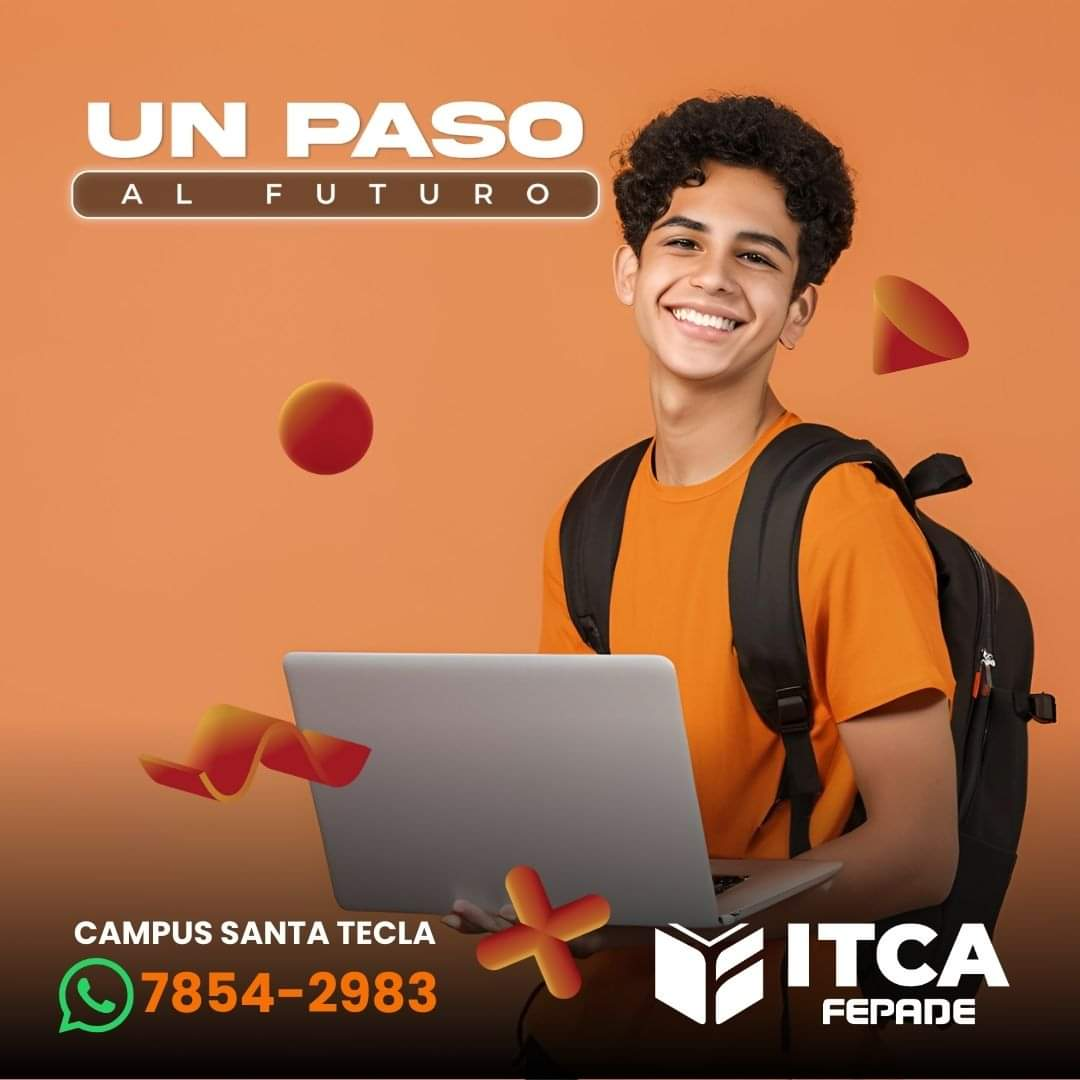
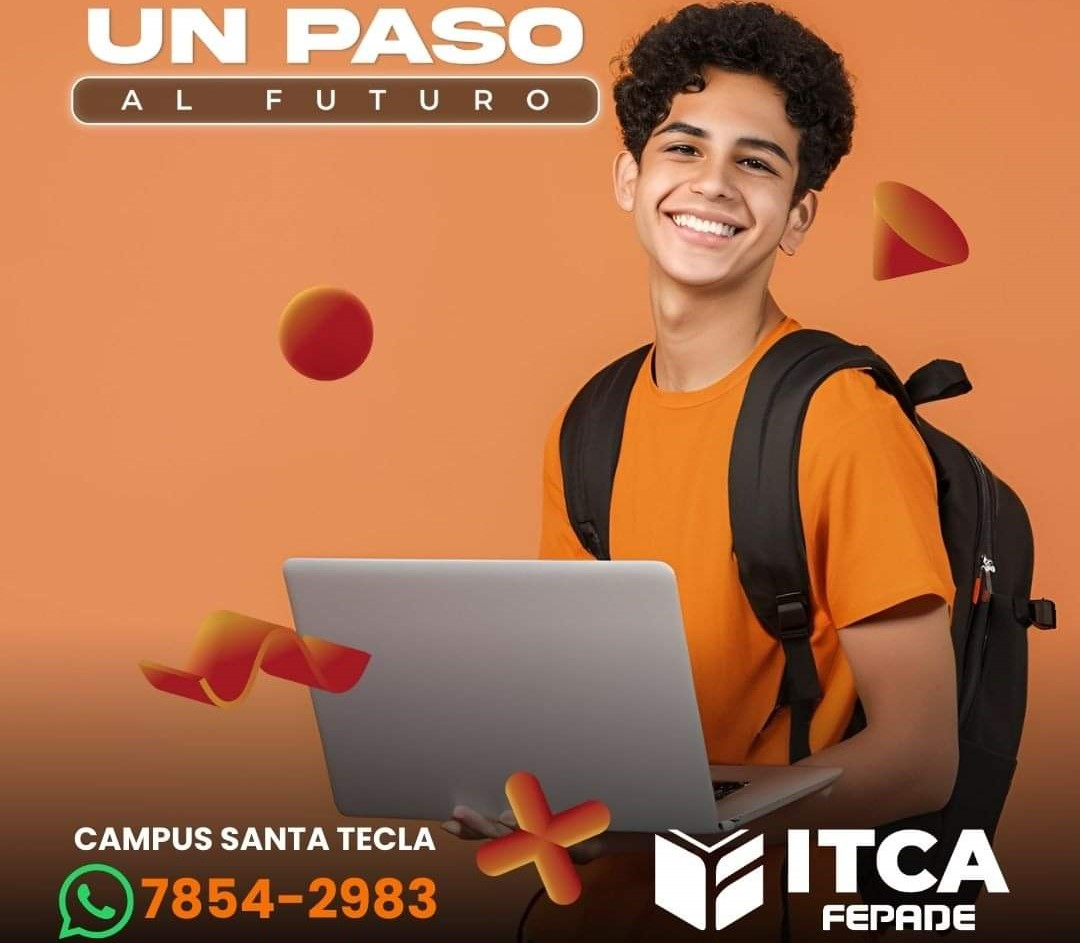
se modifico el componente de crear cuenta, se le agregaron los campos para crear la cuenta y se le agrego el menu

diff --git a/src/views/CreateAccountView.vue b/src/views/CreateAccountView.vue
@@ -1,27 +1,35 @@
 <template>
-    <div >
+    <div class="container-full">
+      <MenuComp />
       <CreateAccountComponent urlReferencia="https://www.itca.edu.sv/" />
     </div>
   </template>
   
   <script>
-import CreateAccountComponent from '@/components/CreateAccountComponent.vue';
-
+  import CreateAccountComponent from '@/components/CreateAccountComponent.vue';
+  import MenuComp from '@/components/MenuComp.vue';
   
-  
-  
-    export default {
-      name: "AccountView",
-      components: {
-        CreateAccountComponent,
-      },
-  
-  
-  
-    }
+  export default {
+    name: "AccountView",
+    components: {
+      CreateAccountComponent,
+      MenuComp,
+    },
+  };
   </script>
   
   <style scoped>
+  
+  .container-full {
+    height: 100vh; 
+    display: flex; 
+    flex-direction: column; 
+    align-items: center; 
+    justify-content: center; 
+    margin: 0; 
+    padding: 0; 
+    overflow: hidden; 
+  }
   
   </style>
   

diff --git a/src/views/LoginView.vue b/src/views/LoginView.vue
@@ -1,5 +1,6 @@
 <template>
-  <div >
+  <div class="container-full">
+    <MenuComp />
     <LoginStudentComponent urlReferencia="https://www.itca.edu.sv/" />
   </div>
 </template>
@@ -7,11 +8,13 @@
 <script>
 
 import LoginStudentComponent from '@/components/LoginStudentComponent.vue'
+import MenuComp from '@/components/MenuComp.vue'
 
   export default {
     name: "LoginView",
     components: {
       LoginStudentComponent,
+      MenuComp,
     },
 
 
@@ -20,5 +23,14 @@ import LoginStudentComponent from '@/components/LoginStudentComponent.vue'
 </script>
 
 <style scoped>
-
+.container-full {
+  height: 100vh; 
+  display: flex; 
+  flex-direction: column; 
+  align-items: center; 
+  justify-content: center; 
+  margin: 0; 
+  padding: 0; 
+  overflow: hidden; 
+}
 </style>

diff --git a/src/components/MenuComp.vue b/src/components/MenuComp.vue
@@ -14,8 +14,11 @@
       <v-btn class="custom-btn" @click="goToPage">
         Biblioteca
       </v-btn>
-      <v-btn class="custom-btn" @click="goToPage">
+      <v-btn class="custom-btn" @click="goToLogin">
         Iniciar sesión
+      </v-btn>
+      <v-btn class="custom-btn" @click="goToCreate">
+        Crear cuenta
       </v-btn>
     </div>
   </template>
@@ -24,9 +27,14 @@
   export default {
     name: "MenuComp",
     methods: {
-      goToPage() {
-        this.$router.push('/Home');
+      
+      goToLogin() {
+        this.$router.push('/login');
+      },
+      goToCreate() {
+        this.$router.push('/CreateAccount');
       }
+
     },
   }
   </script>

diff --git a/src/components/LoginStudentComponent.vue b/src/components/LoginStudentComponent.vue
@@ -79,9 +79,11 @@ export default {
 }
 
 .caja2 {
-    background-image: url("@/assets/pc.jpg");
-    background-size: cover; /* Cambiado a cover para cubrir completamente */
-    background-position: center;
+    background-image: url("@/assets/login.jpeg");
+    background-size:contain; /* Ajusta la imagen para cubrir todo el contenedor */
+    background-position: center; /* Centra la imagen en el contenedor */
+    background-repeat: no-repeat; /* Evita que la imagen se repita */
+    
 }
 
 .cardForm {

diff --git a/src/components/CreateAccountComponent.vue b/src/components/CreateAccountComponent.vue
@@ -87,7 +87,9 @@ export default {
 <style scoped>
 .ConGeneral {
     height: 100vh;
-    padding: 0;
+    padding: 0px;
+    
+    background-color: transparent; /* Elimina el fondo del contenedor */
 }
 
 .caja2 {
